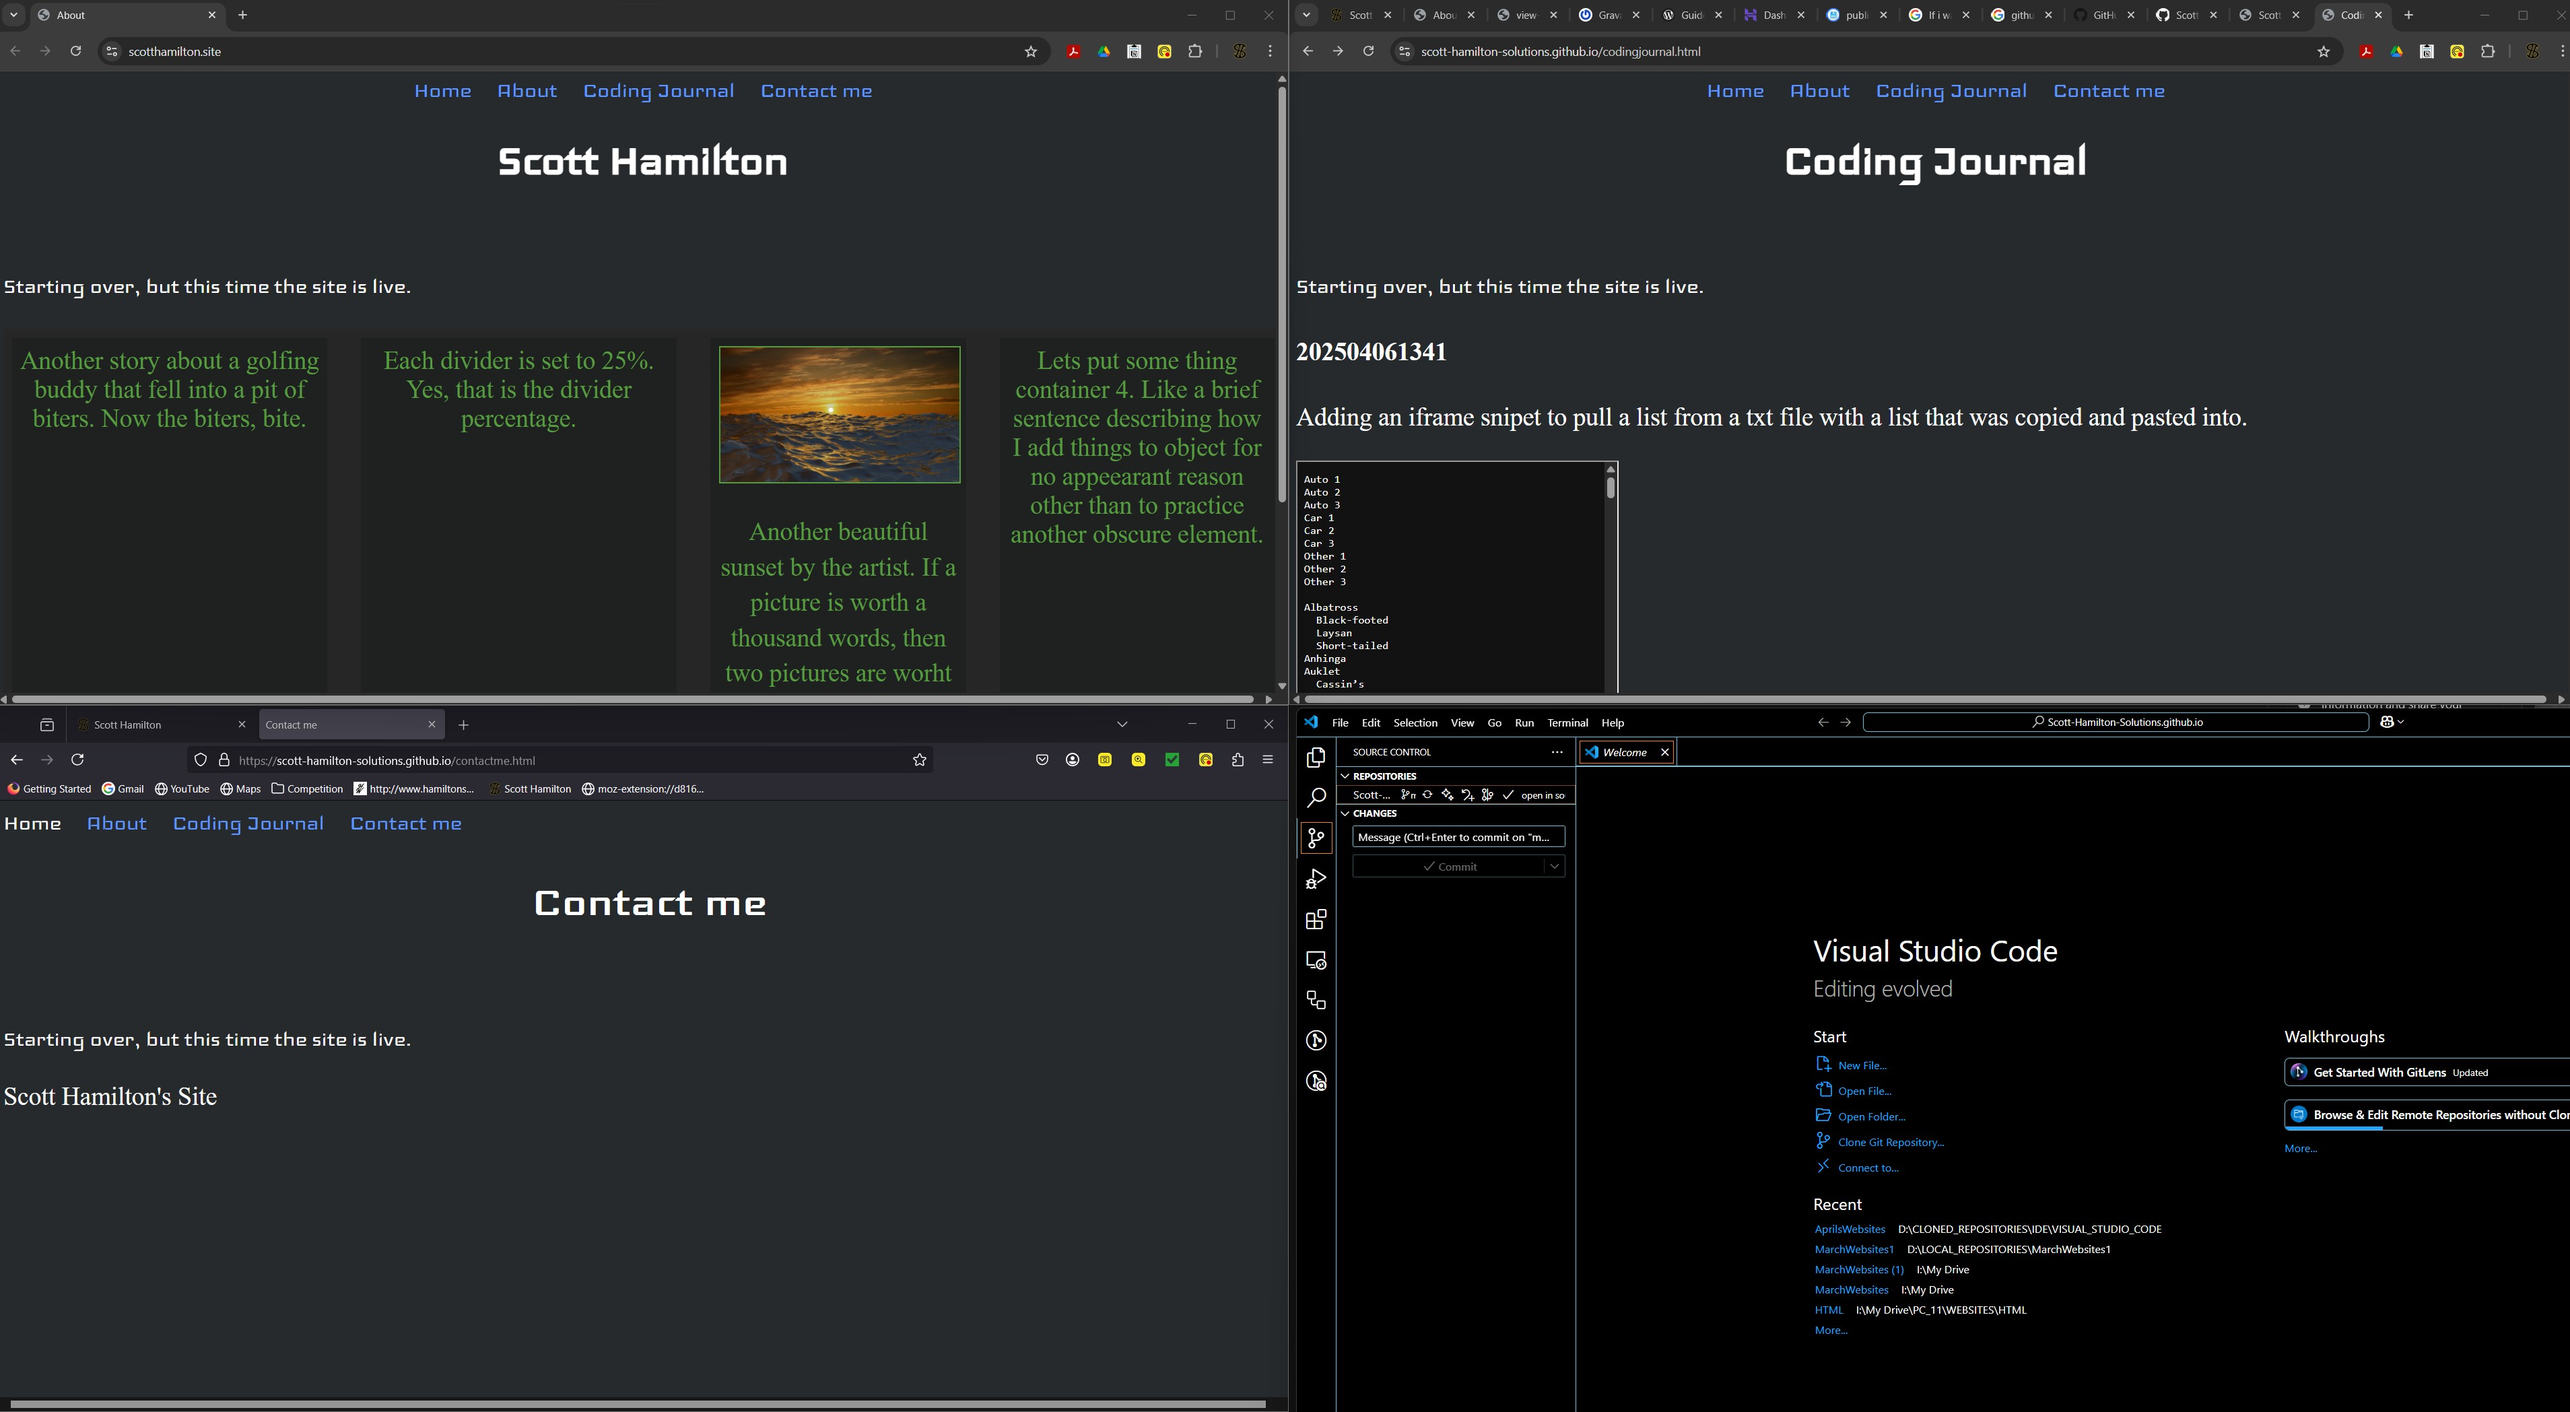
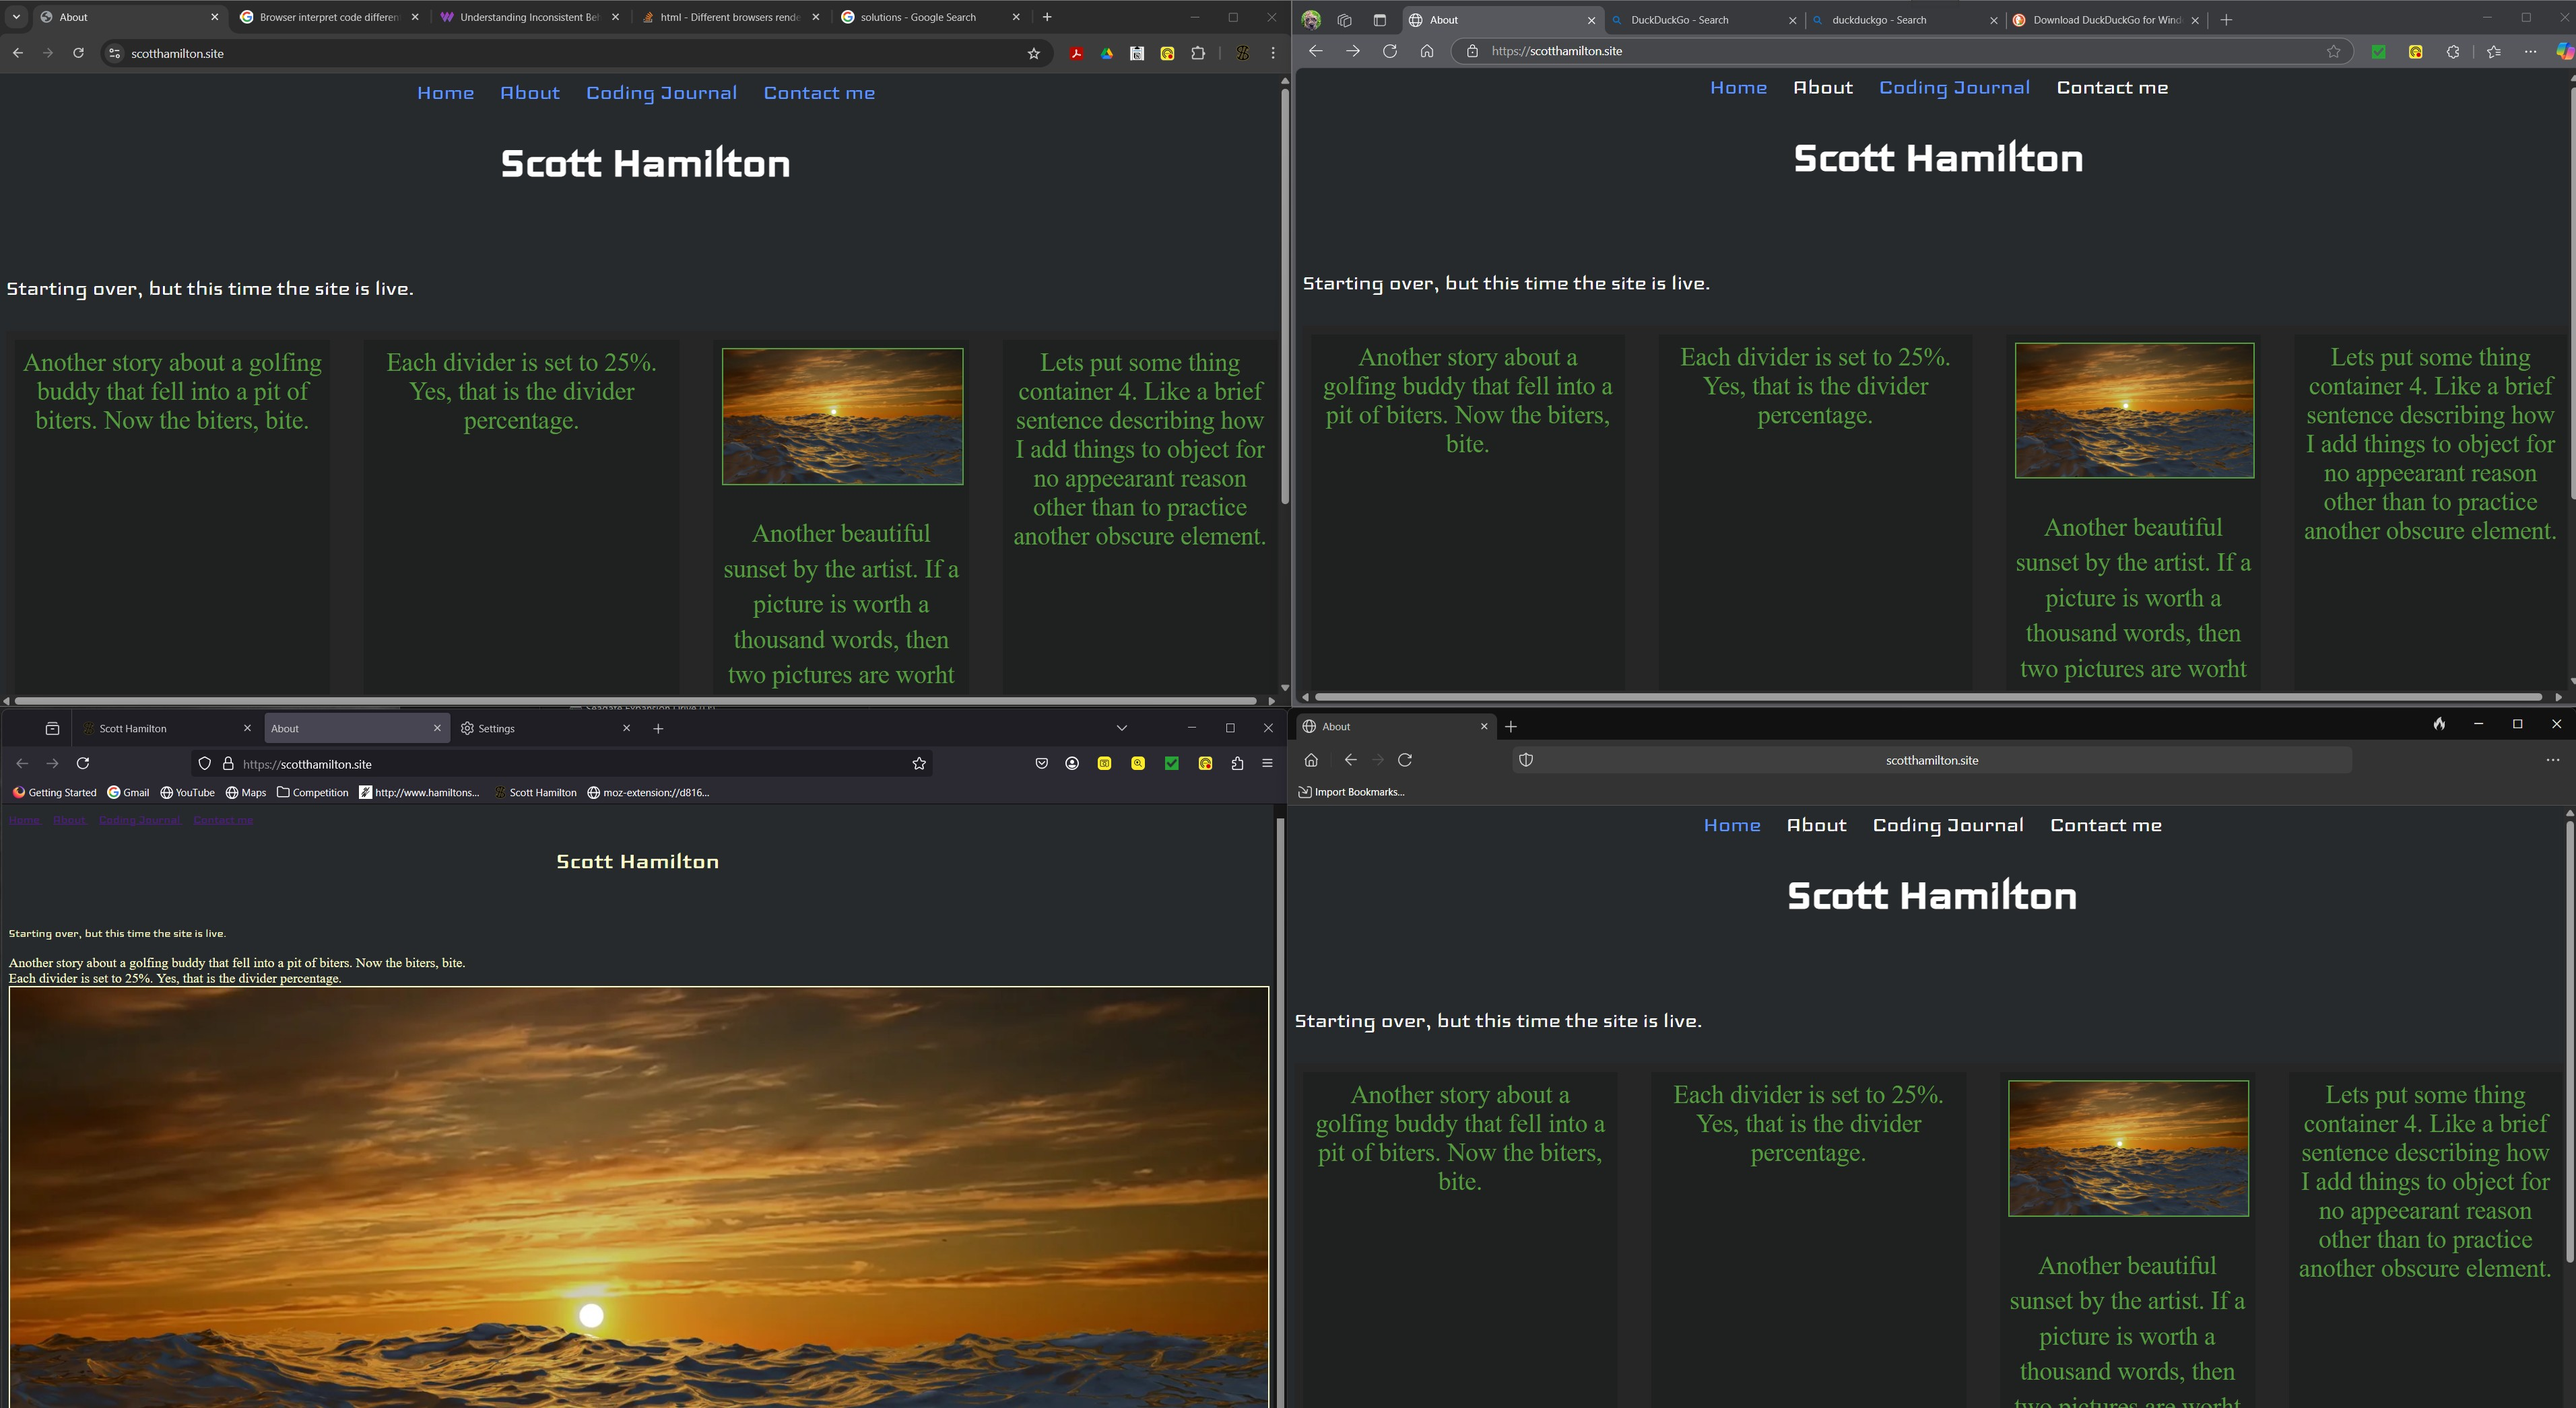
202504070626 - A11 - VSC - commit

diff --git a/codingjournal.html b/codingjournal.html
@@ -23,8 +23,11 @@
 
 <!-- Right below this note Add the next dated entry-->
 <h4>202504070512</h4>
-  <p>
-  Something I actually already knew, but didn't realize the impact of is that different browsers behave differently as depicted in the image below. There are many casuses for this, but the big main two and most common reasons are; Browser data, Browser interpretation. this is also known as "Inconsistent Behavior Across Browsers". There are several solutions to this issue that I came across in just a few minutes time. Such as creating a css file for each browser a user might use and somehow directing the browser to use that particular css file to render the page. <br> Further more, when it comes to testing sites created with simple html code on my own with no help or assistance from other software other than Visual Studo Code. I plan to check out the most commonly used browers that my target audience would use and then test them. Probably up to 4 different browsers. For now that is the plan. I have tested with the Go Live extension option in VSC and it works well, but does not reflect what the browser is doing. For example, when I use google chrome. I get the same result as an initial feed. So that the page doesn't change since chrome collects page information to store on your local system for fast page render times. To avoid this from happening. I will need to change the settings of the browser to never keep any online data, if that kind of thing is even possible these days.</p>
+  <p>  Something I actually already knew, but didn't realize the impact of is that different browsers behave differently as depicted in the image below. There are many casuses for this, but the big main two and most common reasons are; Browser data, Browser interpretation. this is also known as "Inconsistent Behavior Across Browsers". There are several solutions to this issue that I came across in just a few minutes time. Such as creating a css file for each browser a user might use and somehow directing the browser to use that particular css file to render the page.</p>
+   <br>
+  <p>Further more, when it comes to testing sites created with simple html code on my own with no help or assistance from other software other than Visual Studo Code. I plan to check out the most commonly used browers that my target audience would use and then test them. Probably up to 4 different browsers. For now that is the plan. I have tested with the Go Live extension option in VSC and it works well, but does not reflect what the browser is doing. For example, when I use google chrome. I get the same result as an initial feed. So that the page doesn't change since chrome collects page information to store on your local system for fast page render times. To avoid this from happening. I will need to change the settings of the browser to never keep any online data, if that kind of thing is even possible these days.</p>
+    <br>
+  <p>I just installed Duck Duck Go browser and checked out scotthamilton.site which rendered a page that looked like the firefox browser. Then i utilized the Duck Duch Go clear browser date function with one click that acutally took two clicks, but it worked fine as far as I can tell. I then checked out the same site: scotthamilton.site and it looks refreshed. It looks like the edge and chrome browsers that I deleted the browser data from. It's like Duck Duck Go was using files from somewhere else other than it's own browsing data. like browsing data is stored somewhere else other than each browsers programing folders and files.</p>
   <img width="800" src="images/DifferentBrowsers.jpg">	
 <br>
 <h4>202504061341</h4>
